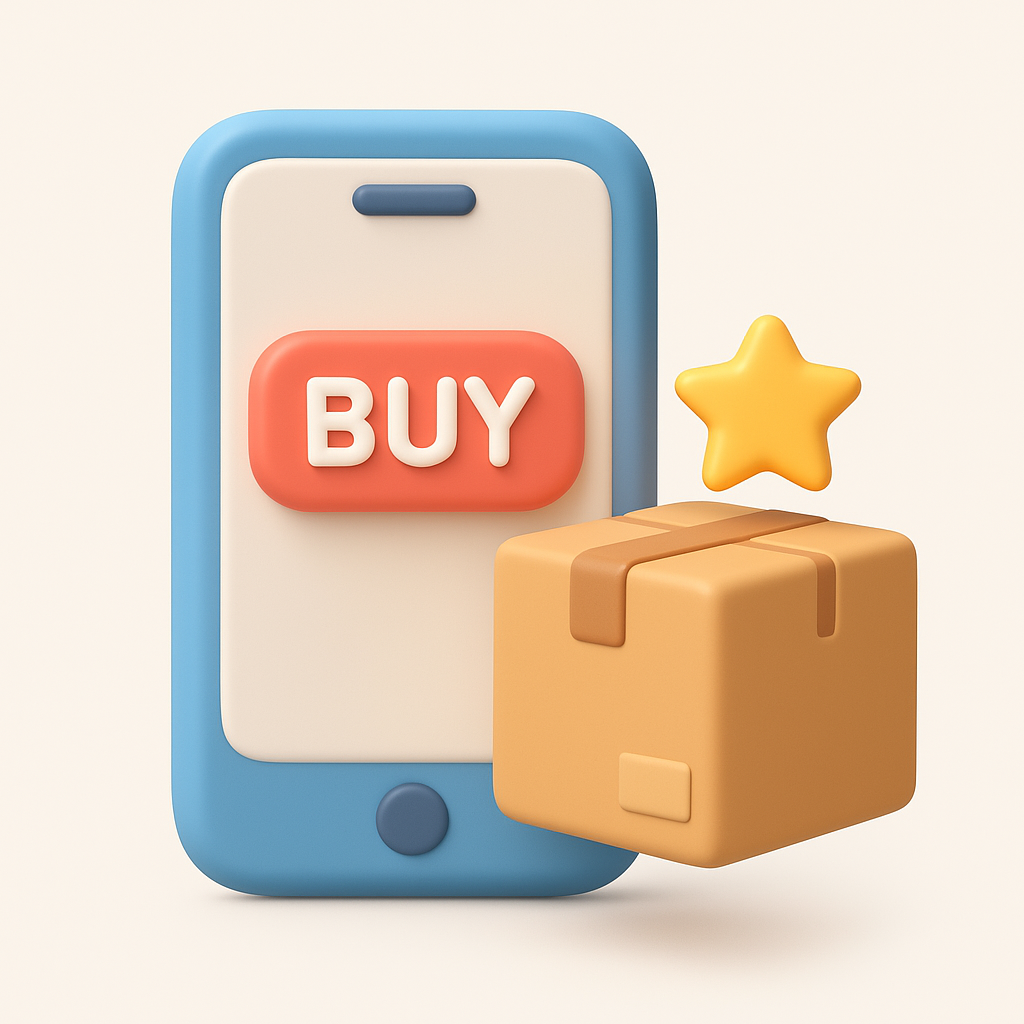
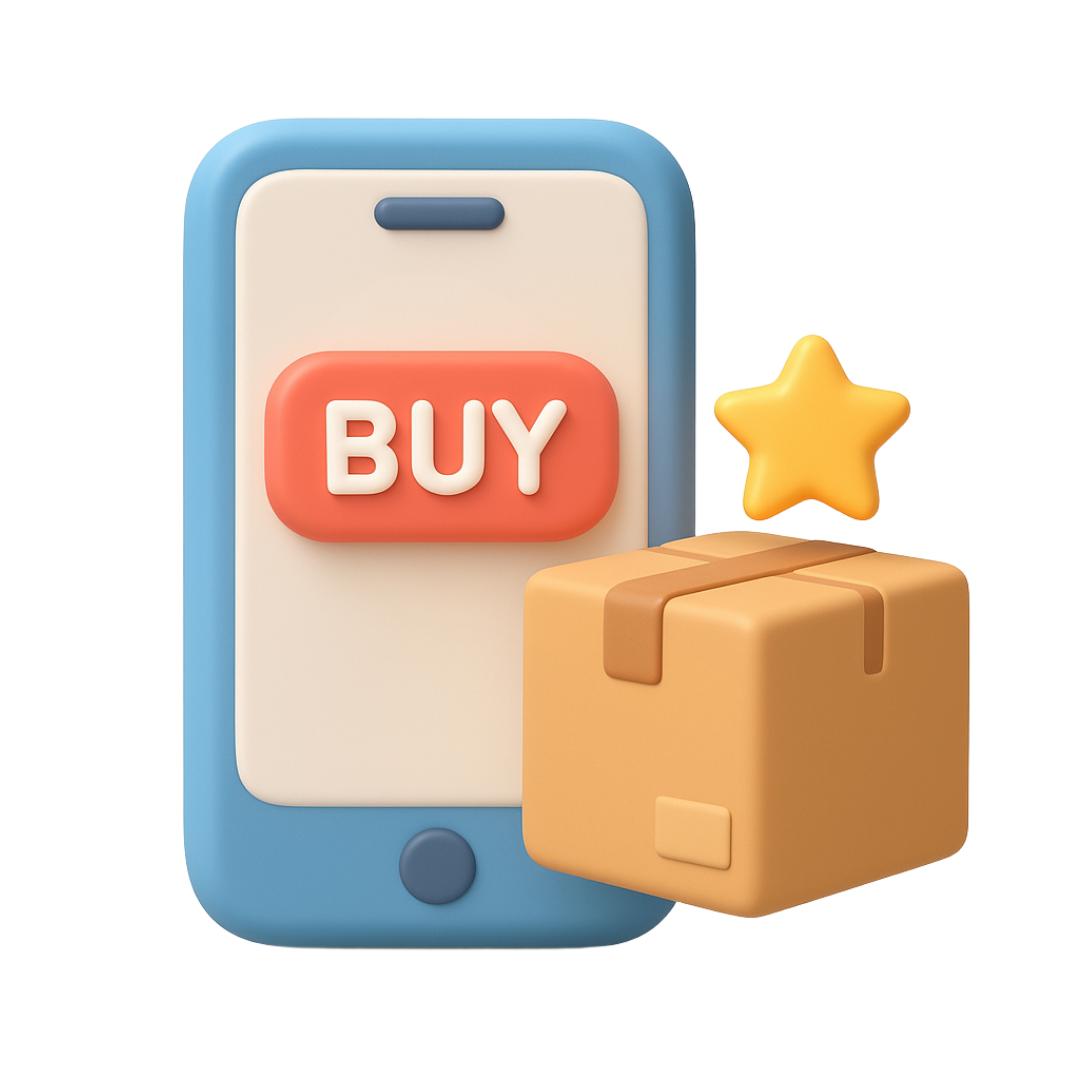
fix: background image fix

diff --git a/src/app/(landing)/work/page.tsx b/src/app/(landing)/work/page.tsx
@@ -12,12 +12,12 @@ import { SquareChevronDown, SquareChevronUp } from "lucide-react";
 gsap.registerPlugin(ScrollTrigger);
 
 export default function WorkPage() {
-    const imageList = [
-                "/images/SelfWork.png",
-                "/images/OnlineCommerce.png",
-                "/images/Influencer.png",
-    ];
-  
+  const imageList = [
+    "/images/SelfWork.png",
+    "/images/OnlineCommerce.png",
+    "/images/Influencer.png",
+  ];
+
   const [selectedWork, setSelectedWork] = useState<any | null>(null);
   const { data: WorkData, isLoading } = useQuery<any[]>({
     queryKey: ["work"],
@@ -30,7 +30,7 @@ export default function WorkPage() {
       return data;
     },
   });
-  
+
   const [expandedProcessIndex, setExpandedProcessIndex] = useState<
     number | null
   >(null);
@@ -94,70 +94,21 @@ export default function WorkPage() {
               const workIndex = index;
               const isSelected = selectedWork?.title === work.title;
 
-              const svgList = [
-                <svg
-                  xmlns="http://www.w3.org/2000/svg"
-                  width="24"
-                  height="24"
-                  viewBox="0 0 24 24"
-                  fill="none"
-                  stroke="currentColor"
-                  strokeWidth="2"
-                  strokeLinecap="round"
-                  strokeLinejoin="round"
-                  className="lucide lucide-store w-8 h-8 text-white"
-                  aria-hidden="true"
-                >
-                  <path d="M15 21v-5a1 1 0 0 0-1-1h-4a1 1 0 0 0-1 1v5"></path>
-                  <path d="M17.774 10.31a1.12 1.12 0 0 0-1.549 0 2.5 2.5 0 0 1-3.451 0 1.12 1.12 0 0 0-1.548 0 2.5 2.5 0 0 1-3.452 0 1.12 1.12 0 0 0-1.549 0 2.5 2.5 0 0 1-3.77-3.248l2.889-4.184A2 2 0 0 1 7 2h10a2 2 0 0 1 1.653.873l2.895 4.192a2.5 2.5 0 0 1-3.774 3.244"></path>
-                  <path d="M4 10.95V19a2 2 0 0 0 2 2h12a2 2 0 0 0 2-2v-8.05"></path>
-                </svg>,
-                <svg
-                  xmlns="http://www.w3.org/2000/svg"
-                  width="24"
-                  height="24"
-                  viewBox="0 0 24 24"
-                  fill="none"
-                  stroke="currentColor"
-                  strokeWidth="2"
-                  strokeLinecap="round"
-                  strokeLinejoin="round"
-                  className="lucide lucide-shopping-cart w-8 h-8 text-white"
-                  aria-hidden="true"
-                >
-                  <circle cx="8" cy="21" r="1"></circle>
-                  <circle cx="19" cy="21" r="1"></circle>
-                  <path d="M2.05 2.05h2l2.66 12.42a2 2 0 0 0 2 1.58h9.78a2 2 0 0 0 1.95-1.57l1.65-7.43H5.12"></path>
-                </svg>,
-                <svg
-                  xmlns="http://www.w3.org/2000/svg"
-                  width="24"
-                  height="24"
-                  viewBox="0 0 24 24"
-                  fill="none"
-                  stroke="currentColor"
-                  strokeWidth="2"
-                  strokeLinecap="round"
-                  strokeLinejoin="round"
-                  className="lucide lucide-briefcase w-8 h-8 text-white"
-                  aria-hidden="true"
-                >
-                  <path d="M16 20V4a2 2 0 0 0-2-2h-4a2 2 0 0 0-2 2v16"></path>
-                  <rect width="20" height="14" x="2" y="6" rx="2"></rect>
-                </svg>,
-              ];
+              const colorList = ["[#FF6F0F]", "[#7CB342]", "[#0066CC]"];
 
-                const colorList = [
-                    "from-[#FF6F0F] via-[#FF8C3A] to-[#FFA05C]",
-                    "from-[#7CB342] via-[#9DD158] to-[#B8E986]",
-                    "from-[#001A4D] via-[#003D7A] to-[#0066CC]"
-                ];
+              const borderColorList = [
+                "border-[#FF6F0F]",
+                "border-[#7CB342]",
+                "border-[#0066CC]",
+              ];
 
               const imageList = [
                 "/images/SelfWork.png",
                 "/images/OnlineCommerce.png",
-                "/images/Influencer.png",
+                "/images/Professional.png",
               ];
+
+              console.log("colorList", colorList[workIndex]);
 
               return (
                 <div
@@ -166,7 +117,14 @@ export default function WorkPage() {
                     setSelectedWork({ ...work, image: imageList[workIndex] });
                   }}
                 >
-                  <button className={clsx("relative w-full h-full p-8 rounded-3xl border backdrop-blur-xl transition-all duration-500 oveflow-hidden bg-white/5 border-white/10 hover:bg-white/10 hover:border-white/20", isSelected && `bg-gradient-to-br ${colorList[workIndex]} border border-white/20  hover:border-white/30 shadow-[0_8px_32px_rgba(0,0,0,0.3)]`)}>
+                  <button
+                    className={clsx(
+                      "relative w-full h-full p-8 rounded-3xl backdrop-blur-xl transition-all overflow-hidden hover:scale-110",
+                      isSelected
+                        ? `border-${colorList[workIndex]} border-2 shadow-[0_8px_32px_rgba(0,0,0,0.3)]`
+                        : "border-white border"
+                    )}
+                  >
                     {isSelected && (
                       <div className="absolute top-4 right-4 w-24 flex items-center justify-center gap-1.5 px-3 py-1.5 bg-white/10 backdrop-blur-sm rounded-full border border-white/20 opacity-100 transform-none">
                         <div className="flex flex-row items-center gap-1.5">
@@ -189,8 +147,23 @@ export default function WorkPage() {
                         </div>
                       </div>
                     )}
-                    <div className="relative w-16 h-16 mx-auto mb-6 rounded-2xl flex items-center justify-center bg-white/10 group-hover:bg-white/15 transform-none">
-                      {svgList[workIndex]}
+                    <div
+                      className={clsx(
+                        "relative w-24 h-24 mx-auto mb-6 rounded-2xl flex items-center justify-center transform-none",
+                        {
+                          "w-32 h-32": workIndex === 0 || workIndex === 2,
+                          "w-24 h-24": workIndex === 1,
+                        }
+                      )}
+                    >
+                      <Image
+                        src={imageList[workIndex]}
+                        alt="Work Image"
+                        width={700}
+                        height={700}
+                        priority
+                        className="w-full h-full object-contain group-hover:scale-105 transition-transform duration-700"
+                      />
                     </div>
                     <div className="relative">
                       <h2 className="text-xl lg:text-2xl mb-2 transition-colors duration-300 text-white/80 group-hover:text-white">
@@ -199,16 +172,6 @@ export default function WorkPage() {
                       <p className="text-sm text-white/50 mb-4">
                         {work.sub_title}
                       </p>
-                      {isSelected && (
-                        <div className="flex flex-row gap-3 items-center justify-center">
-                          {work.metrics.map((metric: any, idx: number) => (
-                            <div key={idx} className="bg-white/10 backdrop-blur-md flex flex-col items-center gap-2 opacity-100 transform-none p-2">
-                              <span className="text-lg text-white">{metric.number}</span>
-                              <span className="text-sm text-white/80">{metric.name}</span>
-                            </div>
-                          ))}
-                        </div>
-                      )}
                     </div>
                   </button>
                 </div>
@@ -216,21 +179,19 @@ export default function WorkPage() {
             })}
           </div>
           {selectedWork && (
-            <div className="max-w-6xl mx-auto opacity-100 transform-none">
-              <div className="relative rounded-3xl overflow-hidden mb-12 group opacity-100 transform-none">
+            <div className="max-w-6xl mx-auto opacity-100 transform-none -mt-20 mb-24">
+              <div className="relative rounded-3xl group opacity-100 transform-none">
                 <div className="aspect-[21/9] relative">
                   <Image
                     src={selectedWork?.image}
                     alt="Work Image"
-                    width={800}
-                    height={800}
+                    width={700}
+                    height={700}
                     priority
-                    className="w-full h-full object-cover group-hover:scale-105 transition-transform duration-700"
+                    className="w-full h-full object-contain group-hover:scale-105 transition-transform duration-700"
                   />
-                  <div className="absolute inset-0 bg-gradient-to-t from-black via-black/60 to-transparent" />
-                  <div className="absolute inset-0 bg-graident-to-r from-transparent via-white/20 to-transparent" />
-                  <div className="absolute inset-0 flex flex-col justify-end p-8 lg:p-12">
-                    <div className="flex items-start gap-6 opacity-100 transform-none mt-36">
+                  <div className="absolute inset-0 top-2/3 transform-y-1/2 items-center justify-center p-8 lg:p-12 text-center">
+                    <div className="flex gap-6 opacity-100 transform-none text-center">
                       <div className="w-20 h-20 rounded-2xl bg-graident-to-br from-[#7CB342] to-[#6A9C37] flex items-center justify-center group-hover:scale-110 transition-transform"></div>
                     </div>
                     <div className="flex-1">
@@ -240,14 +201,6 @@ export default function WorkPage() {
                       <p className="text-xl lg:text-2xl text-white/80 mb-6">
                         {selectedWork?.description}
                       </p>
-                      <div className="flex flex-wrap gap-3">
-                        {selectedWork?.metrics.map((metric: any, idx: number) => (
-                          <div key={idx} className="px-5 py-3 bg-white/10 backdrop-blur-md border border-white/20 rounded-full flex items-center gap-2 opacity-100 transform-none">
-                            <span className="text-lg text-white">{metric.number}</span>
-                            <span className="text-sm text-white/80">{metric.name}</span>
-                          </div>
-                        ))}
-                      </div>
                     </div>
                   </div>
                 </div>

diff --git a/src/app/(landing)/product/page.tsx b/src/app/(landing)/product/page.tsx
@@ -142,7 +142,7 @@ export default function ProductPage() {
               <div className="w-full max-w-[800px] h-[650px] overflow-y-auto flex flex-col border border-white/20 rounded-3xl backdrop-blur-xl bg-gradient-to-br from-white/5 to-transparent">
                 {/* Header Section */}
                 <div className="flex items-center gap-4 p-5 border-b border-white/10">
-                  <div className="w-28 h-28 rounded-2xl bg-white/10 flex items-center justify-center overflow-hidden shrink-0">
+                  <div className="w-28 h-28 rounded-2xl flex items-center justify-center overflow-hidden shrink-0">
                     <Image
                       src={selectedProduct.image}
                       alt="Product Logo"
